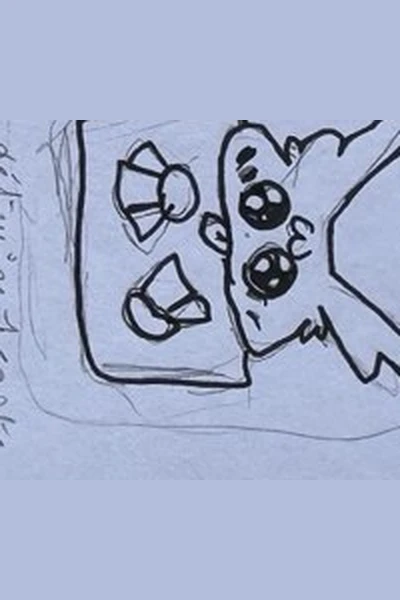
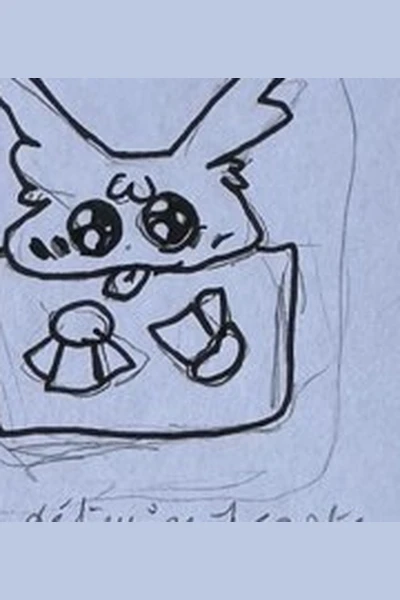
Corrige la rotation des croquis "Mascotte" et intègre l'icône Flip à Skyjo
Les 10 illustrations "Mascotte" étaient toutes inclinées (recadrées depuis
la photo sans tenir compte de l'orientation du dessin sur la page) —
pivotées de 90° dans le sens trigonométrique pour les redresser, y compris
le bouton Flip qui, une fois droit, révèle le mot "FLIP" dessiné en toutes
lettres — jusque-là illisible.

Utilise ce dessin comme icône du bouton Flip à Skyjo (thème Mascotte
actif). Les 3 objets du milieu d'écran (défausse, pioche/carte piochée,
Flip) sont maintenant toujours affichés à une position fixe — le bouton
Flip n'est plus retiré du DOM quand non jouable, seulement grisé/désactivé
— pour que la ligne ne se redimensionne plus selon l'état de la manche.

diff --git a/src/ui/game.js b/src/ui/game.js
@@ -45,7 +45,7 @@ import {
   suitInfo as cinqRoisSuitInfo
 } from '../game/cinqrois.js';
 import { suitInfo } from '../game/deck.js';
-import { suitCardImage, cardBackImage, jokerImage, suiteInfernaleSpecialImage } from './cardThemes.js';
+import { suitCardImage, cardBackImage, jokerImage, suiteInfernaleSpecialImage, flipButtonImage } from './cardThemes.js';
 import { getOrderedHand, moveCard, resetHandOrder } from './handOrder.js';
 import { enableHandDrag } from './dragReorder.js';
 import { enableDragToZone } from './dragToZone.js';
@@ -1587,6 +1587,7 @@ function renderSkyjoTable(container, { room, player, state, onLeave }) {
   const myClickableClassFor = (cell, i) => (canAct && cell ? 'skyjo-cell--placeable' : '');
   const canFlip = canAct && state.drawnCard.source === 'deck';
   const myFlipTargetFor = (cell) => Boolean(canFlip && skyjoPendingMode === 'flip' && cell && !cell.faceUp);
+  const skyjoFlipIllustration = flipButtonImage(document.documentElement.dataset.cardTheme);
   const myVisibleSum = skyjoVisibleSum(me.grid);
 
   container.innerHTML = `
@@ -1619,13 +1620,12 @@ function renderSkyjoTable(container, { room, player, state, onLeave }) {
                  </button>`
           }
 
-          ${
-            canFlip
-              ? `<button type="button" class="skyjo-flip-btn ${skyjoPendingMode === 'flip' ? 'skyjo-flip-btn--armed' : ''}" id="skyjo-flip-btn" data-card-id="flip">
-                   <span class="skyjo-flip-btn__icon">🔄</span><span>Flip</span>
-                 </button>`
-              : ''
-          }
+          <!-- Toujours affiché à une position fixe (grisé quand non jouable),
+               plutôt que d'apparaître/disparaître — évite que la ligne se
+               redimensionne selon l'état. -->
+          <button type="button" class="skyjo-flip-btn ${skyjoPendingMode === 'flip' ? 'skyjo-flip-btn--armed' : ''} ${canFlip ? '' : 'skyjo-flip-btn--dimmed'} ${skyjoFlipIllustration ? 'skyjo-flip-btn--illustrated' : ''}" id="skyjo-flip-btn" ${canFlip ? 'data-card-id="flip"' : 'disabled'} ${skyjoFlipIllustration ? `style="background-image:url('${skyjoFlipIllustration}')"` : ''}>
+            ${skyjoFlipIllustration ? '' : '<span class="skyjo-flip-btn__icon">🔄</span><span>Flip</span>'}
+          </button>
         </div>
 
         <div class="turn-banner ${isMyTurn ? 'turn-banner--you' : ''}">

diff --git a/src/style.css b/src/style.css
@@ -1361,6 +1361,22 @@ h1 {
   color: var(--felt-900);
   box-shadow: 0 0 0 3px var(--brass-soft), 0 6px 16px rgba(0,0,0,0.4);
 }
+/* Toujours affiché (voir renderSkyjoTable), grisé plutôt que retiré du DOM
+   quand non jouable — évite que la ligne pioche/défausse se redimensionne. */
+.skyjo-flip-btn--dimmed {
+  opacity: 0.35;
+  cursor: default;
+}
+.skyjo-flip-btn--illustrated {
+  background-size: cover;
+  background-position: center;
+  background-repeat: no-repeat;
+  border-style: solid;
+  border-color: rgba(0,0,0,0.2);
+}
+.skyjo-flip-btn--illustrated.skyjo-flip-btn--armed {
+  box-shadow: 0 0 0 3px var(--brass), 0 6px 16px rgba(0,0,0,0.4);
+}
 
 /* ---------- La Suite Infernale ---------- */
 

diff --git a/src/ui/cardThemes.js b/src/ui/cardThemes.js
@@ -135,6 +135,12 @@ export function jokerImage(themeId, seed) {
   return stablePick(AUTO_BRANDS.jokers, seed);
 }
 
+/** Icône du bouton "Flip" à Skyjo (retourner une case cachée). Uniquement dessinée pour "mascotte". */
+export function flipButtonImage(themeId) {
+  if (themeId !== 'mascotte') return null;
+  return MASCOTTE.byRole.flip || null;
+}
+
 /**
  * Habillage décoratif "carte numérotée" pour les jeux sans famille (Skyjo,
  * numéros de la Suite Infernale) : une marque au hasard (stable par `seed`,
